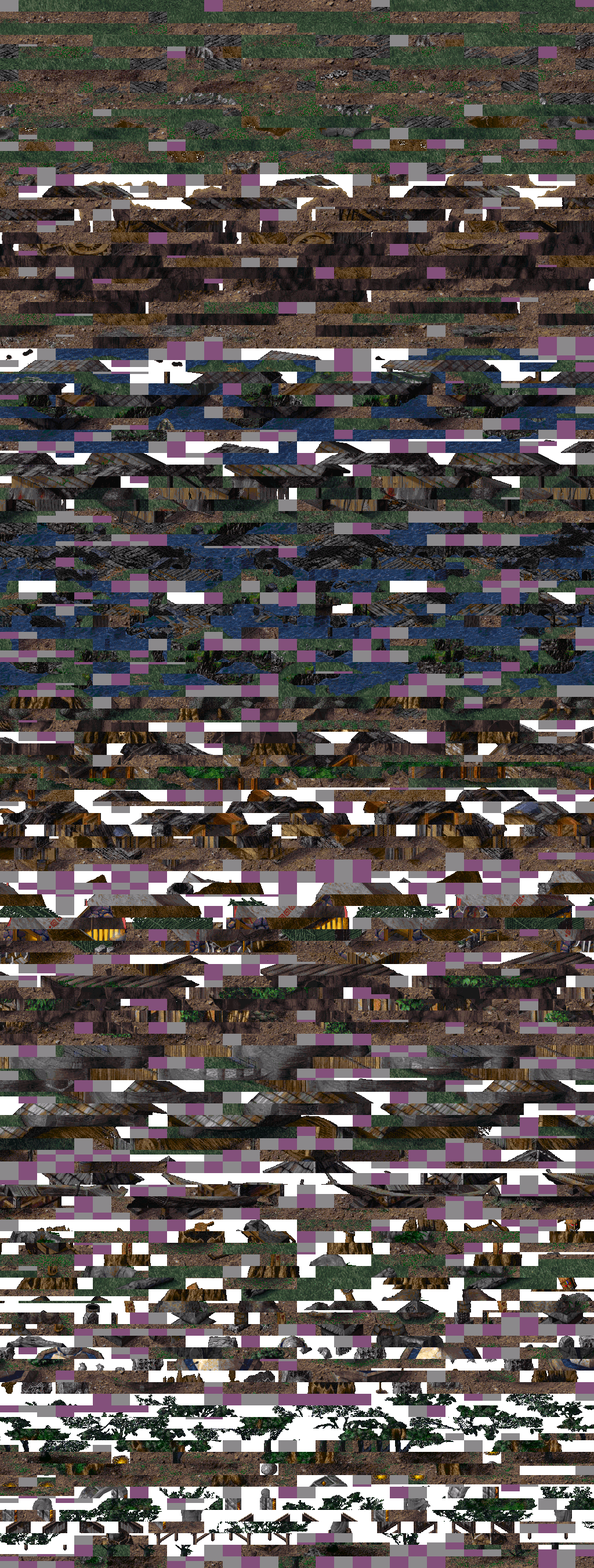
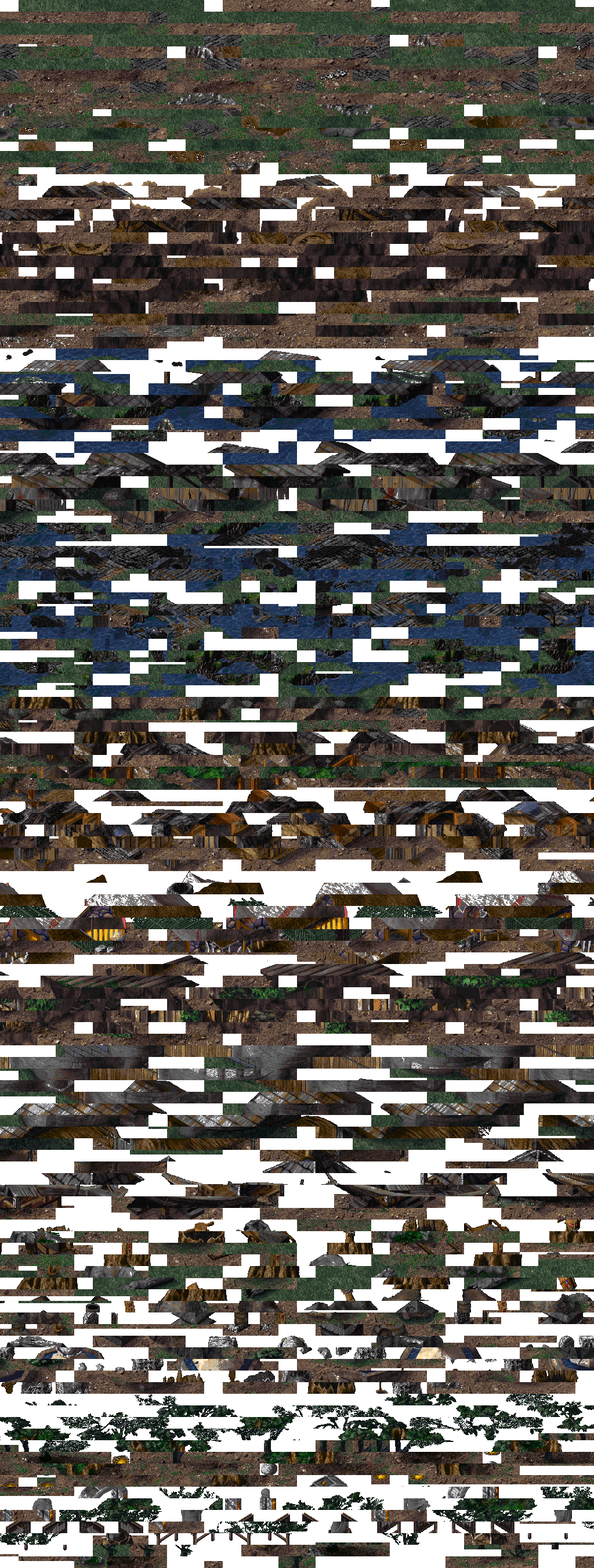
Hide all editor marker art in tiles
Tolerant marker detection, hidden coloured editor tiles, transparent marker bands inside art tiles.

Claude-Session: https://claude.ai/code/session_01RJhmr7SvujCj5vKHnTpG2p

diff --git a/src/game/world.ts b/src/game/world.ts
@@ -16,12 +16,14 @@ export const TILE_H = 20;
  */
 export class World {
   readonly markers: Set<number>;
+  private readonly editor: Set<number>;
 
   constructor(
     readonly map: MapData,
     readonly tileset: TilesetMeta,
   ) {
     this.markers = new Set(tileset.markers);
+    this.editor = new Set(tileset.editor ?? []);
   }
 
   get pixelW(): number {
@@ -44,6 +46,10 @@ export class World {
     return this.inBounds(cx, cy) ? this.map.objects[cy * this.map.w + cx] : NONE;
   }
 
+  /** editor art that must not be drawn (collision markers and the coloured trigger tiles) */
+  isHidden(tile: number): boolean {
+    return this.markers.has(tile) || this.editor.has(tile);
+  }
   isMarker(tile: number): boolean {
     return this.markers.has(tile);
   }

diff --git a/src/data/types.ts b/src/data/types.ts
@@ -13,6 +13,8 @@ export interface TilesetMeta {
   height: number;
   /** solid grey / purple editor tiles: collision + void markers, never drawn in game */
   markers: number[];
+  /** blue / red / green editor tiles (start points, triggers): hidden like markers but not solid */
+  editor?: number[];
 }
 export type TilesetTable = Record<string, TilesetMeta>;
 

diff --git a/src/render/tilemesh.ts b/src/render/tilemesh.ts
@@ -40,7 +40,7 @@ export function buildChunk(
         t = objectTile(raw);
       }
       if (!world.isTile(t)) continue;
-      if (!showMarkers && world.isMarker(t)) continue;
+      if (!showMarkers && world.isHidden(t)) continue;
       const col = t % ts.cols;
       const row = Math.floor(t / ts.cols);
       const u0 = (col * ts.tileW) / ts.width;

diff --git a/tools/build_assets.py b/tools/build_assets.py
@@ -57,6 +57,9 @@ def write_json(path, obj):
 
 # ---------------------------------------------------------------- tiles
 
+MARKER_RGB = [(0x8b, 0x89, 0x8b), (0x83, 0x50, 0x7b), (0x7b, 0x50, 0x7b), (0x8b, 0x81, 0x83), (0x83, 0x81, 0x8b)]
+
+
 def build_tiles(disc, out):
     meta = {}
     for ts in ("st1", "st2", "st3"):
@@ -65,7 +68,7 @@ def build_tiles(disc, out):
         n = af.til_tile_count(sheet)
         rows = (n + NEW_COLS - 1) // NEW_COLS
         img = np.zeros((rows * af.TILE_H, NEW_COLS * af.TILE_W, 4), np.uint8)
-        solid, markers = [], []
+        solid, markers, editor = [], [], []
         for i in range(n):
             t = af.til_get(sheet, i)
             r, c = divmod(i, NEW_COLS)
@@ -73,23 +76,33 @@ def build_tiles(disc, out):
             blk[..., :3] = t
             # pure black is the colour key: transparent for overlay tiles.
             blk[..., 3] = np.where(t.sum(-1) == 0, 0, 255)
+            # the editor's marker colours painted over part of a tile (always in bands of 4 rows) are never art: transparent
+            for mc in MARKER_RGB:
+                blk[..., 3] = np.where((t == np.array(mc, np.uint8)).all(-1), 0, blk[..., 3])
             if (t == t[0, 0]).all():
                 solid.append([i, int(t[0, 0, 0]), int(t[0, 0, 1]), int(t[0, 0, 2])])
             # grey 8b898b / purple 83507b are editor markers (collision / void), never art. Some marker
             # tiles are two-tone (marker colour + black colour key), so test every non-black pixel.
             flat = t.reshape(-1, 3)
-            live = flat[flat.sum(-1) > 0]
+            live = flat[flat.sum(-1) > 0].astype(int)
             if len(live):
-                q = live >> 3
-                is_grey = (q == np.array([0x8b >> 3, 0x89 >> 3, 0x8b >> 3])).all(-1)
-                is_purple = (q == np.array([0x83 >> 3, 0x50 >> 3, 0x7b >> 3])).all(-1)
-                if (is_grey | is_purple).all():
+                def near(c, tol=24):
+                    return np.abs(live - np.array(c)).sum(-1) <= tol
+                # several shades of the grey / purple marker exist (8b898b, 8b8183, 7b507b, 83507b ...); some marker
+                # tiles are half a near-black (8,8,8) that is not the pure-black colour key
+                mark = near((0x8b, 0x89, 0x8b)) | near((0x7f, 0x50, 0x7b))
+                dark = live.max(-1) <= 12
+                if (mark | dark).all() and mark.any():
                     markers.append(i)
+                else:
+                    ed = near((0, 0, 205), 10) | near((205, 0, 0), 10) | near((32, 250, 32), 10)
+                    if (mark | dark | ed).all() and ed.any():
+                        editor.append(i)
         os.makedirs(os.path.join(out, "tiles"), exist_ok=True)
         Image.fromarray(img).save(os.path.join(out, "tiles", ts + ".png"), optimize=True)
         meta[ts] = {"tileW": af.TILE_W, "tileH": af.TILE_H, "cols": NEW_COLS, "count": n,
-                    "width": img.shape[1], "height": img.shape[0], "solidTiles": solid, "markers": markers}
-        print("tiles", ts, n, "tiles", img.shape, "solid:", [s[0] for s in solid][:12])
+                    "width": img.shape[1], "height": img.shape[0], "solidTiles": solid, "markers": markers, "editor": editor}
+        print("tiles", ts, n, "tiles", img.shape, "solid:", [s[0] for s in solid][:12], "markers", len(markers), "editor", len(editor))
     write_json(os.path.join(out, "tiles", "tilesets.json"), meta)
 
 

diff --git a/docs/FORMATS.md b/docs/FORMATS.md
@@ -29,6 +29,10 @@ Map order, tileset and name come from the EXE table in `tools/build_assets.py`
 RGB565 raster 640 px wide, 32x20 tiles, 20 per row, 4320 tiles. Black is the colour key (transition
 tiles need something underneath: **?** how the original fills the base). Solid grey `8b898b` and purple
 `83507b` tiles (also two-tone ones) are editor markers: collision / void. **?** exact semantics of each.
+Several shades exist (`8b898b`, `8b8183`, `7b507b`, `83507b`, ...) and some marker tiles are half a near-black `080808`;
+detection is by colour distance (tilesets.json `markers`). Blue `0000cd`, red `cd0000` and green `20fa20` tiles (st3 only)
+are other editor art (`editor`: hidden, not solid). About 280 art tiles per set carry bands of marker colour (4-row steps)
+painted over part of the tile; those exact marker colours are made transparent in the atlas.
 Assets are repacked to 32 tiles per row so the sheet stays under 4096 px.
 
 ## LANG.GOS - the string table (`IMG/LANG.GOS`, cp949 text, CRLF; `tools/build_assets.py --only lang` -> `text/lang.json`)

diff --git a/PROGRESS.md b/PROGRESS.md
@@ -113,6 +113,11 @@ Open: kind -> sheet mapping, enemy stats/AI, hero HP and damage, trailer tables,
   so the world map still lists everything), STONE map amount.
 - EVT files carry Korean design notes (cp949 comments after the scripts) that explain the quests; worth mining.
 
+## Session 1m
+- Rendering fix: grey / purple editor marker colours were still visible in the caves (c1 showed a checkerboard). Marker
+  detection is now tolerant of the other shades, blue / red / green editor tiles are hidden, and marker-coloured bands
+  inside art tiles are transparent (tiles re-exported).
+
 ## Next ideas
 - Per-hero growth / real stat formulas; monster bytes b2 b4-b7; hero base stats / level / experience, magic (12 spells with names known), real enemy stats.
 - NEW_OBJECT, BASIC event triggers (GO_BASIC_EVENT), save / load.
